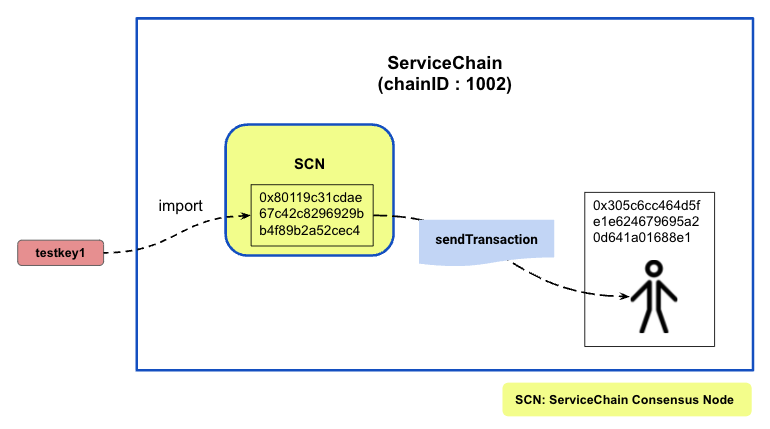
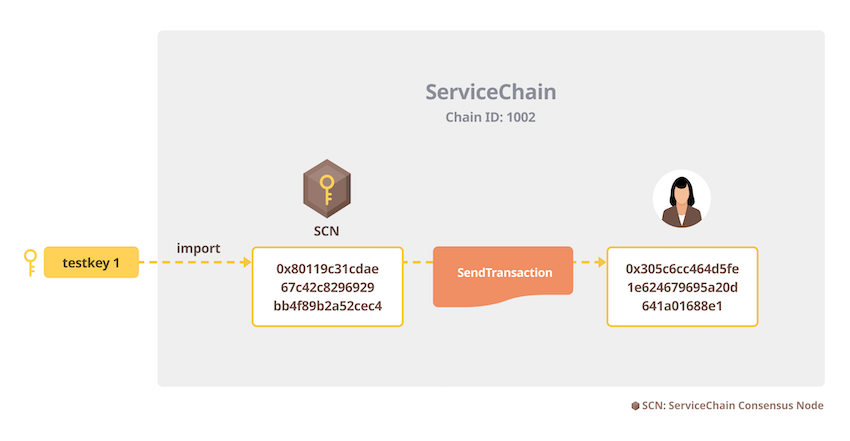
202203/sc 4node setup (#403)
* Add PR #395

* Change images

* Update docs/node/service-chain/getting-started/4nodes-setup-guide.md

* Update for reflecting review

* Update images

* Update docs/node/service-chain/getting-started/4nodes-setup-guide.md

* Update docs/node/service-chain/getting-started/4nodes-setup-guide.md

Changed region(s): [[0.0, 0.0303, 0.9974, 0.9697], [0.4675, 0.1212, 0.6857, 0.303], [0.7481, 0.7879, 0.7792, 0.8182]]

diff --git a/docs/node/service-chain/getting-started/4nodes-setup-guide.md b/docs/node/service-chain/getting-started/4nodes-setup-guide.md
@@ -28,10 +28,35 @@ For the convenience, we will add the binary path to $PATH. Use the actual path o
 $ export PATH=$PATH:~/path/to/kscn-XXXXX-amd64/bin
 ```
 
+SCN also provides various RPM distributions like RHEL, CentOS, and Fedora. For more information, please refer to [Installation](../references/scn/installation.md).
+
+```console
+$ curl -o /etc/yum.repos.d/klaytn.repo https://packages.klaytn.net/config/rhel/7/prod.repo
+  % Total % Received % Xferd Average Speed Time Time Time Current Dload Upload Total Spent Left Speed
+     100 118 100 118 0 0 1113 0 --:--:-- --:--:-- --:--:-- 1102 
+
+$ yum list | grep klaytn 
+packages-klaytn-prod 31 kB/s | 2.9 kB 00:00 
+homi.x86_64           v1.8.0-0.el7      packages-klaytn-prod 
+kbnd.x86_64           v1.8.0-0.el7      packages-klaytn-prod 
+kcnd.x86_64           v1.8.0-0.el7      packages-klaytn-prod 
+kcnd-baobab.x86_64    v1.8.0-0.el7      packages-klaytn-prod 
+kend.x86_64           v1.8.0-0.el7      packages-klaytn-prod 
+kend-baobab.x86_64    v1.8.0-0.el7      packages-klaytn-prod 
+kgen.x86_64           v1.8.0-0.el7      packages-klaytn-prod 
+kpnd.x86_64           v1.8.0-0.el7      packages-klaytn-prod 
+kpnd-baobab.x86_64    v1.8.0-0.el7      packages-klaytn-prod 
+kscnd.x86_64          v1.8.0-0.el7      packages-klaytn-prod 
+ksend.x86_64          v1.8.0-0.el7      packages-klaytn-prod 
+kspnd.x86_64          v1.8.0-0.el7      packages-klaytn-prod 
+
+$ yum install kscnd
+```
+
 ## Step 1: Create genesis.json and nodekeys <a id="step-1-create-genesis-json-and-a-key"></a>
 
 We will use homi utility to generate the needful files.
-Homi is a utility that automatically generates scripts, configuration files, and encryption keys necessary to configure the Klaytn blockchain.
+`homi` is a utility that automatically generates scripts, configuration files, and private keys necessary to configure the Klaytn blockchain.
 You can execute homi from any Linux/Mac PC.
 
 First, extract the homi archive you downloaded.
